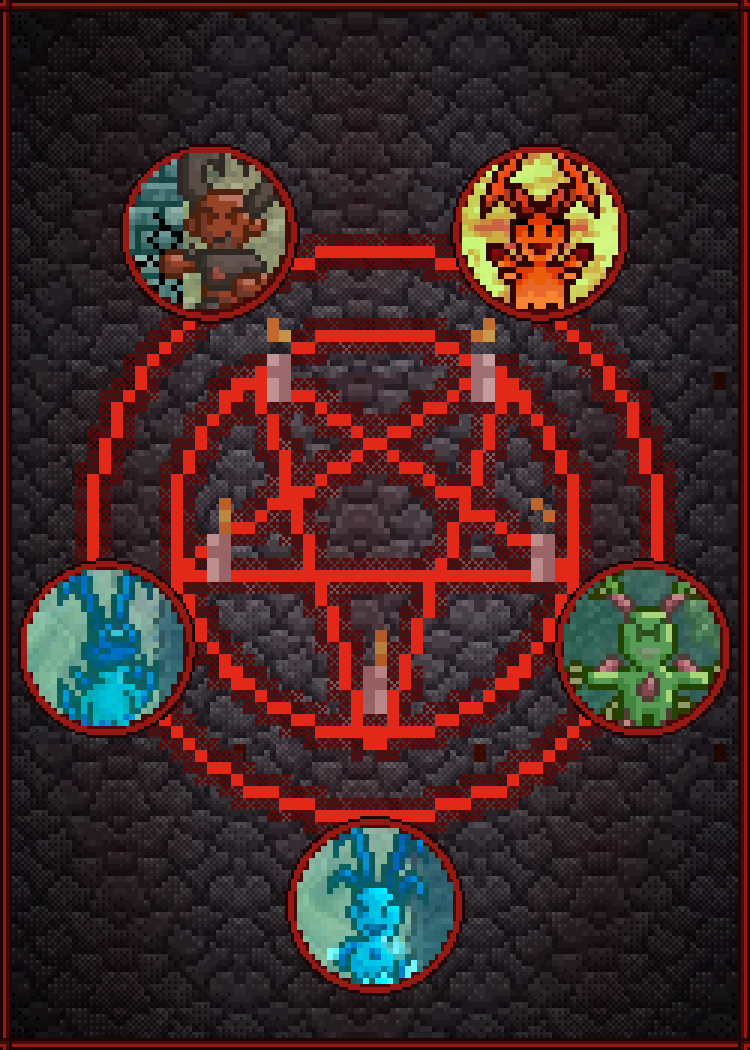
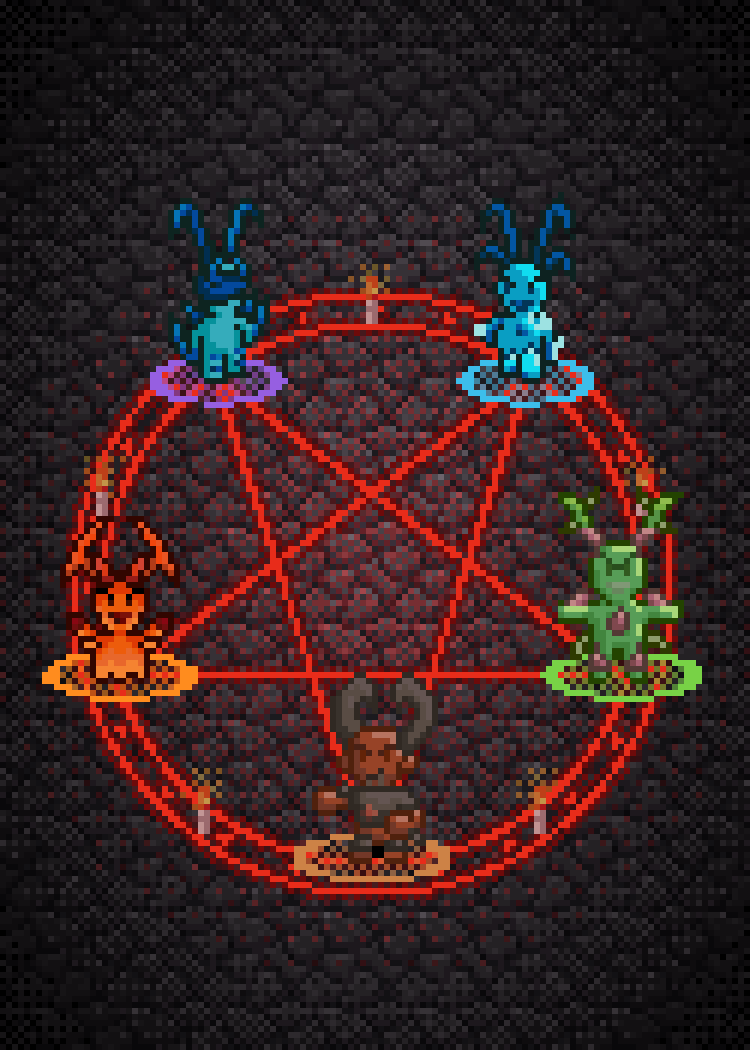
Shop: acht überarbeitete Runde-2-Sleeves mit Rahmen und englischen Namen
Guardian Zodiac, Puppet Theater, Spider Nest, Pharaoh's Tomb, Gigantisaur
Comic, Detective Board, Cycling Demons und Divine Balance auf Runde-3-Niveau
(xcf-Sprites, einheitliche Pixelgröße, vollständige Figuren), gerahmt und
in data/shop/sleeves plus sleeve-names.json aufgenommen.

Claude-Session: https://claude.ai/code/session_01TEnvTzH2xD44R6Unjv7vDo

diff --git a/data/sleeve-proposals/runde2/generator/s09_demons.py b/data/sleeve-proposals/runde2/generator/s09_demons.py
@@ -1,81 +1,143 @@
 # -*- coding: utf-8 -*-
-"""Sleeve: Kreislauf der Cycling Demons – Pentagramm aus „Summoning Circle“ (Kerzen und Kopfsteinpflaster),
-an den fünf Spitzen Medaillons der fünf Cycling Demons (Bouldor, Herbithorn, Hydrogen, Infernous, Serpentous).
-Pentagramm samt Kerzen sowie Bouldor, Herbithorn und Infernous stammen aus den xcf-Ebenen (Repo PixelPartiesSprites);
-Hydrogen und Serpentous gibt es dort nicht, sie kommen weiter aus den Kartenbildern."""
+"""Sleeve 09 „Cycling Demons“: umgedrehtes Pentagramm auf Kopfsteinpflaster, an den fünf Spitzen stehen die
+fünf Cycling Demons in ihrer Beschwörungsreihenfolge (im Uhrzeigersinn: Hydrogen → Herbithorn → Bouldor →
+Infernous → Serpentous → Hydrogen). Zwischen den Dämonen stehen die fünf Kerzen auf dem Ring.
+
+Alles auf EINEM Raster 125×175 gebaut und am Ende 2× auf 250×350 skaliert (Ausgabe 6 px je Grafikpixel):
+Figuren, Kerzen, Pentagramm-Linien, Leuchten und Pflaster haben dieselbe Pixelgröße. Kein Rahmen.
+
+Quellen:
+  Bouldor    = MotiveDeri.xcf Ebene 151 „Bouldor Demon“ (ohne die schwarzen Mauerrisse links derselben Ebene)
+  Herbithorn = MotiveGrailWar.xcf Ebene 550 „Herbithorne“ (Körper ohne die Dornenranke, die durch die Hände läuft)
+  Infernous  = Motive.xcf Ebene 816 „Infernal Demon“
+  Hydrogen, Serpentous: als Ebene nicht vorhanden → aus den Kartenbildern („Hydrogen Demon“, „Serpentous Demon“,
+    natives Raster). Die Karten tragen einen türkisen Schleier (Karte = 0,71·Sprite + (25,64,67), aus Bouldor und
+    Herbithorn gegen ihre xcf-Ebenen bestimmt); er wird herausgerechnet, die Figur per Farbregel freigestellt und
+    auf eine kleine Palette (k-Means) gebracht, damit die Kanten sauber und die Farben so kräftig wie bei den
+    xcf-Sprites sind.
+  Kerze      = Motive.xcf Ebene 913 „Summoning Circle“ (eine der fünf Kerzen)
+  Pflaster   = 16×16-Kachel aus Motive.xcf Ebene 511 „Sichtbar #115“ (Boden um den Beschwörungskreis)
+  Pentagramm, Ringe, Leuchten: nach „Summoning Circle“ selbst gezeichnet (1 Rasterpixel breite Linien).
+"""
 import math, numpy as np
 from kit import *
-from xcfkit import sprite, parts
+from xcfkit import sprite
 
-cv = Canvas(W, H)
-sc = nat('Summoning Circle')          # 94×64, feineres Raster (p≈6,35)
-cob = sc[1:63, 1:21]
-t2 = np.concatenate([cob, cob[:, ::-1]], 1)
-tile = up(np.dstack([t2, np.full(t2.shape[:2], 255, np.uint8)]), 2)
-fill_tiles(cv, hsv_shift(tile, 0, 1.0, 0.55))
-vignette(cv, 0.85, 0.2)
+w, h = 125, 175                                   # Arbeitsraster (Endskalierung 2×)
+cv = Canvas(w, h)
+yy, xx = np.mgrid[0:h, 0:w] + 0.5
 
-CX, CY = 125, 178
-# Pentagramm aus der Ebene „Summoning Circle“ (Motive.xcf), 4×: dunkle Linien glühend rot nachgezogen,
-# Kerzen und Blutflecken in Originalfarben
-K = 4
-pent = sprite('mo_summoning_circle', 'Motive', [913])
-pa = pent[..., 3] > 0
-lines = pa & (pent[..., :3].max(-1) < 70)
-ys, xs = np.where(lines)
-pcx, pcy = (xs.min() + xs.max() + 1) / 2, (ys.min() + ys.max() + 1) / 2   # Kreismitte
-glow = cv2.dilate(lines.astype(np.uint8), np.ones((3, 3), np.uint8)).astype(bool) & ~pa
-for (mk, col) in ((glow, (90, 8, 8)), (lines, (225, 40, 25))):
-    for y, x in zip(*np.where(mk)):
-        X = int(CX + (x - pcx) * K); Y = int(CY + (y - pcy) * K)
-        if mk is glow:
-            ordered(cv, X, Y, X + K, Y + K, cv.a[min(Y, H - 1), min(X, W - 1)].tolist(), col, lambda a, b: 0.6)
-        else:
-            cv.rect(X, Y, X + K, Y + K, col)
-pc = pent[..., :3].astype(int)
-blood = pa & ~lines & (pc[..., 0] > 2 * pc[..., 1] + 20) & (pc[..., 0] < 200)   # Blutflecken weglassen
-for y, x in zip(*np.where(pa & ~lines & ~blood)):
-    X = int(CX + (x - pcx) * K); Y = int(CY + (y - pcy) * K)
-    cv.rect(X, Y, X + K, Y + K, pent[y, x, :3])
+# --- Boden -------------------------------------------------------------------------------------------------
+cob = sprite('r2_09_cobble', 'Motive', [511], box=(200, 195, 216, 211))
+fill_tiles(cv, darken(cob, 0.55))
 
-# Dämonen aus den xcf-Ebenen (wo vorhanden)
-bouldor = max(parts(sprite('de_bouldor', 'MotiveDeri', [151]), dil=0), key=lambda p: p.size)
-herbi_full = sprite('gw_herbithorne', 'MotiveGrailWar', [550])
-herbi = herbi_full[:, 22:56]
-infern = sprite('mo_infernal_demon', 'Motive', [816])
-XCF = {'Bouldor Demon': bouldor, 'Herbithorn Demon': herbi, 'Infernous Demon': infern}
-# Lage der xcf-Sprites im Kartenbild (Bildabgleich mit Maske), damit sie exakt über der Kartenfigur liegen
-LOC = {}
-for n, s_ in XCF.items():
-    a = nat(n).astype(np.float32); t = s_[..., :3].astype(np.float32)
-    msk = (s_[..., 3:] > 0).astype(np.float32).repeat(3, 2)
-    r = cv2.matchTemplate(a, t, cv2.TM_SQDIFF, mask=msk)
-    LOC[n] = cv2.minMaxLoc(r)[2]
+CX, CY, R = 62, 99, 44                            # Mittelpunkt, Radius der Sternspitzen
+rr = np.hypot(xx - CX, yy - CY)
+# rötlicher Schein im Kreis (geordnet gedithert, ganze Rasterpixel)
+glow_t = np.clip(1.15 - rr / (R + 12), 0, 1) * 0.55
+q = glow_t > BAYER4[(yy - .5).astype(int) % 4, (xx - .5).astype(int) % 4]
+red = cv.a.astype(float)
+red[..., 0] = red[..., 0] * 1.25 + 28; red[..., 1] *= 0.7; red[..., 2] *= 0.7
+cv.a[q] = red.clip(0, 255).astype(np.uint8)[q]
+vignette(cv, 0.9, 0.05)
 
-demons = [('Infernous Demon', 38, 26), ('Herbithorn Demon', 38, 27), ('Hydrogen Demon', 38, 24),
-          ('Serpentous Demon', 37, 23), ('Bouldor Demon', 36, 27)]
-R = 13
-for i, (n, bx, by) in enumerate(demons):
-    th = math.radians(36 + i * 72)
-    px = CX + 94 * math.sin(th); py = CY - 124 * math.cos(th)
-    a = nat(n)
-    d = disc(a, bx, by, R)
-    if n in XCF:                                    # scharfes xcf-Sprite an seiner Kartenposition einsetzen
-        s_ = XCF[n]; lx, ly = LOC[n]
-        lay = np.zeros_like(d); ox, oy = lx - (bx - R), ly - (by - R)
-        for yy in range(s_.shape[0]):
-            for xx in range(s_.shape[1]):
-                Y, X_ = oy + yy, ox + xx
-                if 0 <= Y < 2 * R and 0 <= X_ < 2 * R and s_[yy, xx, 3] and d[Y, X_, 3]:
-                    d[Y, X_, :3] = s_[yy, xx, :3]
-        m = up(d, 2)
-    else:
-        m = up(hsv_shift(d, 0, 1.45, 1.08), 2)
-    ring(cv, px, py, 0, 2 * R + 4, (30, 5, 5))
-    ring(cv, px, py, 0, 2 * R + 3, (150, 25, 20))
-    ring(cv, px, py, 0, 2 * R + 1, (70, 10, 10))
-    paste(cv, m, int(px) - 2 * R, int(py) - 2 * R)
+# --- Pentagramm und Ringe ------------------------------------------------------------------------------------
+CORE, HALO = (232, 44, 26), (110, 10, 10)
+line = np.zeros((h, w), bool)
 
-for i, c in enumerate([(30, 5, 5), (150, 25, 20), (70, 10, 10), (30, 5, 5)]):
-    cv.a[i, :] = c; cv.a[-1 - i, :] = c; cv.a[:, i] = c; cv.a[:, -1 - i] = c
-print(save(cv, '09_cycling_demons.png'))
+
+def seg(x0, y0, x1, y1):
+    n = int(max(abs(x1 - x0), abs(y1 - y0)) * 3) + 1
+    for t in np.linspace(0, 1, n):
+        x, y = int(x0 + (x1 - x0) * t), int(y0 + (y1 - y0) * t)
+        if 0 <= x < w and 0 <= y < h: line[y, x] = True
+
+
+ANG = [36, 108, 180, 252, 324]                    # umgedrehter Stern: Spitze nach unten
+P = [(CX + R * math.sin(math.radians(a)), CY - R * math.cos(math.radians(a))) for a in ANG]
+for i in range(5):
+    (x0, y0), (x1, y1) = P[i], P[(i + 2) % 5]
+    seg(x0, y0, x1, y1)
+for rad in (R + 1, R + 6):                        # doppelter Ring
+    line |= (rr >= rad - 0.5) & (rr < rad + 0.5)
+# Runen-Striche zwischen den Ringen (kurze radiale Kerben)
+ang = np.degrees(np.arctan2(xx - CX, -(yy - CY))) % 360
+dots = (np.abs(rr - (R + 3.5)) < 0.8) & ((ang % 15) < 2.2)          # Punkte zwischen den Ringen
+line |= dots
+# Glühen: 1 Pixel dunkelroter Saum, im Schachbrett gedithert (wirkt weicher als ein voller Rand)
+halo = cv2.dilate(line.astype(np.uint8), np.ones((3, 3), np.uint8)).astype(bool) & ~line
+chk = ((yy - .5).astype(int) + (xx - .5).astype(int)) % 2 == 0
+cv.a[halo & chk] = HALO
+cv.a[halo & ~chk] = (cv.a[halo & ~chk] * 0.6 + np.array(HALO) * 0.4).astype(np.uint8)
+cv.a[line] = CORE
+
+# --- Dämonen ---------------------------------------------------------------------------------------------------
+def clean_card(name, box, k=6):
+    """Figur aus dem Kartenbild: Schleier herausrechnen, freistellen, Palette reduzieren."""
+    a = nat(name).astype(float)
+    r = np.clip((a - np.array([24.8, 64.0, 67.0])) / 0.71, 0, 255)
+    x0, y0, x1, y1 = box
+    sub = r[y0:y1, x0:x1]
+    Rr, G, B = sub[..., 0], sub[..., 1], sub[..., 2]
+    m = ((Rr < 0x20) & (G >= Rr)) | ((B > Rr + 25) & (G > Rr))   # dunkle Petrol-Kontur oder Blau/Türkis
+    num, lab, st, _ = cv2.connectedComponentsWithStats(m.astype(np.uint8), connectivity=8)
+    m = lab == 1 + np.argmax(st[1:, 4])
+    px = sub[m].astype(np.float32)
+    crit = (cv2.TERM_CRITERIA_EPS + cv2.TERM_CRITERIA_MAX_ITER, 50, 0.5)
+    cv2.setRNGSeed(7)
+    _, lbl, cen = cv2.kmeans(px, k, None, crit, 8, cv2.KMEANS_PP_CENTERS)
+    out = np.zeros(sub.shape[:2] + (4,), np.uint8)
+    out[m, :3] = cen[lbl.ravel()].clip(0, 255).astype(np.uint8)
+    out[m, 3] = 255
+    return trim(out)
+
+
+infern = sprite('r2_09_infernous', 'Motive', [816])
+bould = sprite('r2_09_bouldor', 'MotiveDeri', [151])
+bould = bould.copy()
+blk = (bould[..., :3].max(-1) < 30) & (np.arange(bould.shape[1])[None, :] < 10)   # Mauerrisse links
+bould[blk] = 0
+bould = trim(bould)
+herb = sprite('r2_09_herbithorn', 'MotiveGrailWar', [550])[:, 30:51].copy()
+num, lab, st, _ = cv2.connectedComponentsWithStats((herb[..., 3] > 0).astype(np.uint8), connectivity=8)
+herb[lab != 1 + np.argmax(st[1:, 4])] = 0
+herb = trim(herb)
+hydro = clean_card('Hydrogen Demon', (28, 8, 50, 43))
+serp = clean_card('Serpentous Demon', (28, 7, 50, 42))
+
+# (Sprite, Elementfarbe des Beschwörungslichts) im Uhrzeigersinn ab der rechten oberen Spitze
+DEM = [(hydro, (60, 190, 235)), (herb, (120, 210, 70)), (bould, (205, 130, 70)),
+       (infern, (255, 140, 30)), (serp, (150, 95, 225))]
+
+# Kerzen auf dem Ring zwischen den Dämonen (0°, 72°, 144°, 216°, 288°)
+circ = sprite('r2_09_candle', 'Motive', [913], box=(247, 211, 249, 219))
+cand = circ.copy()
+cand[cand[..., :3].max(-1) < 120] = 0                             # rote Kreisfüllung derselben Ebene weg
+cand[0, 1] = cand[1, 1]                                          # Flammenspitze: fehlendes Pixel ergänzen
+cand = trim(cand)
+FL = (255, 200, 60)
+for a in (0, 72, 144, 216, 288):
+    x = CX + (R + 3.5) * math.sin(math.radians(a)); y = CY - (R + 3.5) * math.cos(math.radians(a))
+    fx, fy = int(round(x - cand.shape[1] / 2)), int(round(y - cand.shape[0] + 2))
+    # kleiner Lichthof der Flamme (gedithert)
+    d = np.hypot(xx - (fx + 1), yy - (fy + 1))
+    lt = np.clip(1 - d / 4.5, 0, 1) * 0.6
+    qq = (lt > BAYER4[(yy - .5).astype(int) % 4, (xx - .5).astype(int) % 4]) & ~line
+    cv.a[qq] = (cv.a[qq] * 0.65 + np.array(FL) * 0.35).astype(np.uint8)
+    cv.paste(cand, fx, fy)
+
+order = sorted(range(5), key=lambda i: P[i][1])                   # von hinten nach vorn
+for i in order:
+    s, col = DEM[i]
+    px_, py_ = P[i]
+    # Beschwörungslicht: flache Ellipse in Elementfarbe unter den Füßen (Rand hell, innen gedithert)
+    e = ((xx - px_) / (s.shape[1] / 2 + 3)) ** 2 + ((yy - py_) / 4.2) ** 2
+    ring_ = (e < 1) & (e >= 0.62)
+    inner = (e < 0.62) & (BAYER4[(yy - .5).astype(int) % 4, (xx - .5).astype(int) % 4] < 0.5)
+    cv.a[inner] = (cv.a[inner] * 0.45 + np.array(col) * 0.55).astype(np.uint8)
+    cv.a[ring_] = col
+    cv.paste(s, int(round(px_ - s.shape[1] / 2)), int(round(py_ + 1 - s.shape[0])))
+
+big = Canvas(W, H)
+big.a[:] = up(np.dstack([cv.a, np.full((h, w), 255, np.uint8)]), 2)[..., :3]
+print(save(big, '09_cycling_demons.png'))

diff --git a/data/sleeve-proposals/runde2/notes_R2b.md b/data/sleeve-proposals/runde2/notes_R2b.md
@@ -4,3 +4,5 @@
 04 | Spider Nest | Konzept beibehalten, technisch angeglichen: Netz jetzt aus der xcf-Ebene (statt Kartenbild), Speichen als Haltefäden bis zum Rand verlängert, Netz, Fäden, Schatten, Fels und alle Spinnen im selben Raster (vorher 2×/3×/5× gemischt); Brain Spider mit Glanz-Ebene; eigener roter Rahmen entfernt; Fels im Kontrast beruhigt, Vignette schwächer, Überlappungen der Spinnen beseitigt | Alles auf 63×88-Raster, einheitlich 4× (auf 250×350 beschnitten) | MotiveGrailWar.xcf „Trapping #1“ (273, Netz); MotiveGN.xcf: Ebene #178 (259), #246+#248 (251, 250), #181 (260), #309/#308/#310 (264–266), SPODDERS (267), Klippen (421)
 05 | Pharaoh Tomb | ganze Szene im Originalraster neu gesetzt (vorher Ren 4× neben 2×-Figuren); Augentafel mit Mauertextur der Eye-of-Ren-Karte (Pyramiden-Mauerwerk), Wand aus waagrechten Ziegeln, Figuren der vorderen Reihe stehen auf Flechtverband-Boden, Ushabti auf der Bodenlinie; eigener Goldrahmen entfernt; schlichte Ushabti/Urnen entfallen (kein Platz in 3×) | alles 3× (250er-Raster; Canvas 84×117, am Rand 1 px beschnitten) | MotiveEgypt.xcf: #99 Auge, #121 Pyramid (Tafeltextur), #185 Grabkammer (Wand/Boden), #188 Ren, #168 Ushabti (mit Flamme), #183 Royal Mummy Guards, #214 Khet
 08 | Detective Board | Konzept/Anordnung unverändert; Wand, Polaroids, Fäden (1 px), Nadeln (4×4) und Schatten im Raster der Fotos (125×175) neu gebaut; Lupe vollständig: Ring sauber geschlossen in den Original-Blautönen, Griff aus Originalpixeln inkl. des von Doqs Hand verdeckten Stücks, Griff nach links oben (bleibt ganz im Bild); Linse vergrößert 2× in derselben Pixelgröße wie der Ring; eigener Holzrahmen entfernt | Wand/Fotos/Fäden/Nadeln 2×, Lupe inkl. Linseninhalt 4× (Vordergrund) | Fotos pixelgenau aus Sichtbar-Szenen: Motive #849 (Kaito Sid), MotiveDeepsea #46 (Rakah), MotiveGrailWar #182 (Devlin), MotiveIndia #26 (Criminal Monkee), MotiveMoe #590 (Black Marketeer); Ziegelwand aus Motive #109 (Great Detective Doq); Lupe Motive #1437 „Doq“; Fadenfarben Crimson Skull Spider
+01 | Guardian Zodiac | Medaillons mit Kartenausschnitten ersetzt durch die zwölf vollständigen Figuren aus MotiveGuardianBeasts (je gegen ihre Sichtbar-Szene geprüft; She mit Dreizack, Hou mit rotem Stab ohne Bomben, Niu in Normalgröße „Niu #1“); Figuren stehen im Uhrzeigersinn ab Shu (oben) bis Zhu im Oval auf flachen Graskuppen um eine Tierkreis-Scheibe (Ziegelring mit zwölf Feldern) mit sauber nachgezeichnetem Yin-Yang in der Palette des Charm of Balance; ruhiger Felsboden mit Vignette; keine Ringe/Rahmen im 1-px-250er-Raster mehr, eigener Rahmen entfernt | Skalierung: alles 2× (Grundraster 125×175) – Figuren, Scheibe, Yin-Yang, Kantenlinien, Kuppen, Texturen | MotiveGuardianBeasts.xcf: Shu 71, Niu #1 82, Hu 75, Tu-Kopie 109, Long-Kopie 105, She #1/#5/#4/#3 95/92/96/94, Ma #3 66, Yang #1 62, Hou 124 + Hou #2 122 + Stab aus Hou #1 123, Ji #1 88, Gou #1 118, Zhu #1 56; Fels/Ziegel/Gras-Kacheln aus Ebene #28 (64); Yin-Yang nach Motive.xcf 698 „Charm of Balance“
+09 | Cycling Demons | Medaillons ersetzt durch ganze Figuren an den fünf Spitzen eines umgedrehten Pentagramms (wie „Summoning Circle“), in Beschwörungsreihenfolge im Uhrzeigersinn Hydrogen → Herbithorn → Bouldor → Infernous → Serpentous; jede auf einem Beschwörungslicht in ihrer Elementfarbe; Pentagramm/Doppelring als glühende 1-Raster-Pixel-Linien selbst gezeichnet (statt 4× vergrößertem Sprite), fünf Kerzen auf dem Ring zwischen den Dämonen; Kopfsteinpflaster aus xcf-Szene; Hydrogen/Serpentous (keine Ebenen) aus den Kartenbildern: türkiser Kartenschleier herausgerechnet (aus Bouldor/Herbithorn gegen deren Ebenen bestimmt), freigestellt, Palette reduziert; eigener Rahmen entfernt | Skalierung: alles 2× (Grundraster 125×175) – Dämonen, Kerzen, Linien, Lichter, Pflaster | MotiveDeri 151 (Bouldor, ohne Mauerrisse), MotiveGrailWar 550 (Herbithorne, Körper ohne Dornenranke), Motive 816 (Infernal Demon), Motive 913 (Kerze), Motive 511 Sichtbar #115 (Pflaster 16×16); Karten „Hydrogen Demon“, „Serpentous Demon“

diff --git a/data/sleeve-proposals/runde2/README.md b/data/sleeve-proposals/runde2/README.md
@@ -28,3 +28,10 @@ z. B. `python3 s03_puppets.py`; das PNG landet in diesem Ordner.
   Flood-Fill (`cutf`), Farbregel (`cutrule`), Farbproben (`cut2`), Fäden entfernen (`string_mask`),
   Medaillons (`disc`), Spiegeln/Kacheln, Umfärben, Speichern
 - `s01_zodiac.py` … `s10_balance.py` – je ein Sleeve
+
+## Überarbeitung (Runde 2b) und Shop
+Alle acht Sleeves wurden nach den Runde-3-Regeln neu gebaut (xcf-Sprites, einheitliche Pixelgröße, vollständige
+Figuren; Details in `notes_R2b.md`, Vorgaben in `BRIEF_R2b.md`), mit `runde3/generator/frames2.py` gerahmt
+(Zuordnung in `generator/frames_r2.json`) und liegen unter englischem Namen in `final/` und im Shop:
+guardian-zodiac, puppet-theater, spider-nest, pharaohs-tomb, gigantisaur-comic, detective-board, cycling-demons,
+divine-balance (Anzeigenamen in `data/shop/sleeve-names.json`). Übersicht: `00_overview_final.png`.
